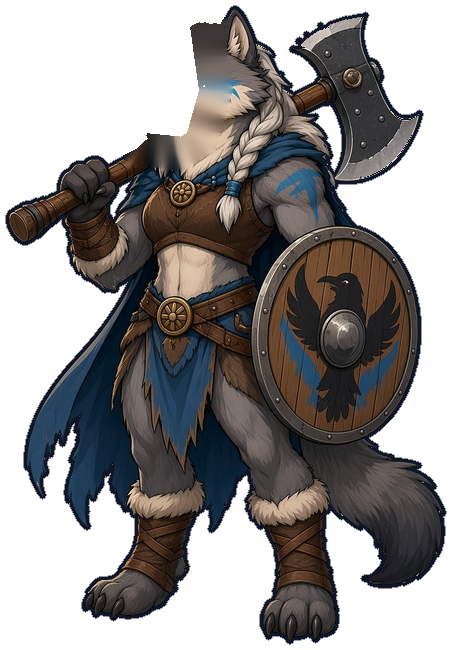
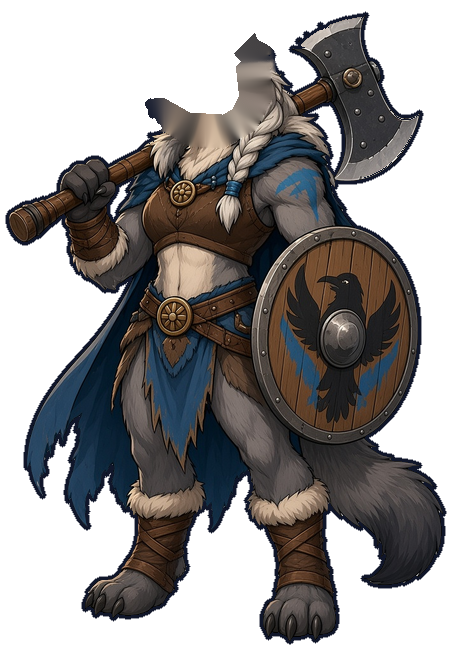
Quick fixes from play-testing
- Astrid's head outline was cutting through her ear and face; redrawn, re-cut
- Speech bubbles stay long enough to read (longer lines stay longer) and fade
  out slowly; a reply waits for the first line to finish
- Clicking in a scene no longer highlights text
- Send now on every open place, so there is no scrolling to the bottom
- The greeting line on Home changes every 20 seconds, not on every refresh
- The founder seal sits on the art, not over the card's name
- Tapping energy, ink or gold in the top bar opens Training, Summon or the Shop
- Summon reveal starts larger so the card is not blown up from a tiny size

Claude-Session: https://claude.ai/code/session_01MKsZvYnMVUP17zjeeAuUE4

Changed region(s): [[0.2781, 0.0, 0.6181, 0.2769]]

diff --git a/css/os.css b/css/os.css
@@ -332,7 +332,8 @@ small.ok{color:#3ecf6b}small.bad,.ferr{color:#ff7a70}.ferr{font-weight:800;font-
 .jpop{position:absolute;inset:0;pointer-events:none}.drop{position:absolute;left:62%;top:42%;display:flex;align-items:center;gap:.3rem;font:400 .95rem "Lilita One";text-shadow:0 0 4px #000,0 2px 0 #000;animation:dropup 1.9s forwards;white-space:nowrap}.drop img{width:40px;height:40px;object-fit:contain;filter:drop-shadow(0 3px 4px #000)}
 @keyframes dropup{from{opacity:0;transform:translateY(20px) scale(.4)}15%{opacity:1;transform:translateY(0) scale(1.1)}70%{opacity:1}to{opacity:0;transform:translateY(-36px) scale(.8)}}
 .heroes.pick .card{cursor:pointer}.card.sel .face{outline:4px solid var(--teal);outline-offset:3px}.card.busy{opacity:.35;cursor:not-allowed}
-.card.rising{animation:rise2 1.6s cubic-bezier(.2,1.2,.4,1) both}@keyframes rise2{from{transform:translateY(70%) scale(.2) rotateY(540deg);opacity:0}45%{opacity:1}to{transform:none}}
+.card.rising{animation:rise2 1.6s cubic-bezier(.2,1.2,.4,1) both}@keyframes rise2{from{transform:translateY(60%) scale(.6) rotateY(540deg);opacity:0}45%{opacity:1}to{transform:scale(1) rotateY(0deg)}}
+.card.rising{will-change:transform;backface-visibility:hidden}
 .slot.pulse{animation:pulse 1.2s infinite}@keyframes pulse{50%{box-shadow:0 0 16px var(--teal)}}
 .popin{animation:popin .5s cubic-bezier(.3,1.8,.5,1)}@keyframes popin{from{transform:scale(.2) rotate(-20deg);opacity:0}}
 .trow{display:grid;grid-template-columns:64px 150px 1fr;gap:.8rem;align-items:center;margin-bottom:.6rem;padding:.6rem .9rem}.trow img{height:64px;object-fit:contain;margin:0 auto}.tname span{display:block;font-size:.8rem}
@@ -648,14 +649,17 @@ a.place:hover{transform:translateY(-3px);border-color:var(--teal)}
 .card.founder .face::after{content:"";position:absolute;inset:6px;border-radius:13px;pointer-events:none;z-index:4;
   box-shadow:inset 0 0 0 1px rgba(255,241,184,.85),inset 0 0 14px rgba(242,185,53,.35)}
 .card.mini.founder .face::after{inset:4px;border-radius:9px}
-.card.founder .front .seal{position:absolute;right:8px;top:8px;z-index:5;width:22px;height:22px;border-radius:50%;
+.card.founder .front .seal{position:absolute;right:8px;top:23%;z-index:5;width:22px;height:22px;border-radius:50%;
   background:radial-gradient(circle at 35% 30%,#ffe9a8,#f2b935 45%,#9c6a10);border:2px solid rgba(5,8,20,.8);
   display:grid;place-items:center;font:400 .62rem "Lilita One";color:#4a3520;text-shadow:0 1px 0 rgba(255,255,255,.4)}
-.card.mini.founder .front .seal{width:16px;height:16px;font-size:.5rem;right:6px;top:6px}
+.card.mini.founder .front .seal{width:16px;height:16px;font-size:.5rem;right:6px;top:24%}
 .founder-note{display:inline-flex;align-items:center;gap:.4rem;font:800 .72rem Nunito;letter-spacing:.08em;text-transform:uppercase;color:#f3b930}
 /* speech bubble (js/stage.js): white, inked, with a tail that points at whoever is talking */
 .osb{position:absolute;z-index:8;max-width:min(230px,46%);background:#fff;color:#1e2a47;border:2.5px solid #1e2a47;border-radius:14px;padding:.34em .7em;font:700 .8rem/1.25 Nunito,sans-serif;box-shadow:0 3px 0 rgba(8,12,26,.45);opacity:0;transform:translateY(6px) scale(.8);transform-origin:var(--tx,50%) 100%;transition:opacity .16s,transform .2s cubic-bezier(.3,1.6,.5,1);pointer-events:none;text-align:left}
 .osb.on{opacity:1;transform:none}
+.osb.off{opacity:0;transform:translateY(-4px);transition:opacity 1.1s ease,transform 1.1s ease}
+.jscene,.jscene *,.desk-scene,.desk-scene *,.gnav,.gbar,.card,.btn,.rstage{-webkit-user-select:none;user-select:none}
+.gbar .res span[data-go]{cursor:pointer}.prow .acts{flex-direction:column;align-items:stretch;gap:.35rem}
 .osb::before,.osb::after{content:"";position:absolute;left:var(--tx,50%);top:100%;border:9px solid transparent;border-top-color:#1e2a47;border-bottom:0;transform:translateX(-50%)}
 .osb::after{border-width:6px;border-top-color:#fff;border-bottom:0;margin-top:-1px}
 .osb.side-l::before,.osb.side-l::after{left:auto;right:100%;top:var(--ty,50%);border:9px solid transparent;border-right-color:#1e2a47;border-left:0;transform:translateY(-50%)}

diff --git a/js/game.js b/js/game.js
@@ -271,7 +271,7 @@
     ['Dress them', 'When gear turns up, open an arrival from Arrivals and tap a glowing slot on the back of their card.', 'heroes', () => Object.values(S.equip).some(e => e.some(g => g)) || Object.values(S.gear).some(g => Object.values(g).some(x => x))]];
   function renderHome() {
     const hr = new Date().getHours(); $('h-day').textContent = new Date().toLocaleDateString(undefined, { weekday: 'long', month: 'long', day: 'numeric' });
-    $('h-hi').textContent = (hr < 12 ? 'Morning' : hr < 18 ? 'Afternoon' : 'Evening') + ', ' + me.profile.username; $('h-sub').textContent = line('idle');
+    $('h-hi').textContent = (hr < 12 ? 'Morning' : hr < 18 ? 'Afternoon' : 'Evening') + ', ' + me.profile.username; if (!renderHome.at || now() - renderHome.at > 20000) { renderHome.at = now(); $('h-sub').textContent = line('idle'); }
     $('adminbtn').hidden = !me.admin;
     const g = $('guide'), left = GUIDE.filter(s => !s[3]()); g.hidden = !left.length;
     if (left.length) { g.innerHTML = '<div class="tag">Getting started</div>' + GUIDE.map((s, i) => `<div class="gstep ${s[3]() ? 'done' : ''}"><i>${s[3]() ? '✓' : i + 1}</i><div><b>${s[0]}</b><span>${s[1]}</span></div><button class="btn small ${s[3]() ? 'ghost' : ''}" data-go="${s[2]}">${s[3]() ? 'Done' : 'Go'}</button></div>`).join(''); }
@@ -350,19 +350,20 @@
     const host = document.querySelector('[data-who="0"]'); if (!host || !text) return;
     const box = q => ({ x0: q.x - q.wide * .4, x1: q.x + q.wide * .4, y0: q.y - q.tall, y1: q.y });
     OS.Stage.say(host, { x: pp.x, top: pp.y - pp.tall }, text, hold, jobPups.filter(q => q !== pp).map(box));
-    pp.say((hold || 3200) / 1000 - .4);
+    pp.say((hold || OS.Stage.holdFor(text)) / 1000 - .3);
   }
   function chatter(dt) {
     if (current !== 'jobs' || !crewPups.length || $('modal').classList.contains('on')) return; chatT -= dt; if (chatT > 0) return; chatT = 11 + Math.random() * 10;
     const a = crewPups[Math.floor(Math.random() * crewPups.length)]; crewSay(a, pickLine(a.id, 'say'));
-    const others = crewPups.filter(x => x !== a); if (others.length && Math.random() < 0.45) { const b = others[Math.floor(Math.random() * others.length)]; setTimeout(() => { if (current === 'jobs') crewSay(b, pickLine(b.id, 'reply'), 2600); }, 2700); chatT += 3; }
+    const others = crewPups.filter(x => x !== a); if (others.length && Math.random() < 0.45) { const b = others[Math.floor(Math.random() * others.length)]; setTimeout(() => { if (current === 'jobs') crewSay(b, pickLine(b.id, 'reply')); }, 5200); chatT += 7; }
   }
   function placeSheet() {
     const j = Object.assign({ place: null, prog: 0, order: 'stay', since: 0 }, S.jobs[0] || {}), d = el('div', '', `<h3 style="font-size:1.5rem">Where should Smudge work?</h3>`);
     const ps = el('div', 'plist');
     workPlaces.forEach(p => { const open = unlocked(p), row = el('div', 'prow' + (open ? '' : ' lock'));
       row.innerHTML = `<img src="${OS.img('scenes', p.id)}" alt=""><div><div class="tag">${p.era} · ${p.skill}</div><h3>${p.name}</h3><p>${open ? p.blurb : 'Needs ' + p.skill + ' level ' + p.level + '.'}</p></div>`;
-      const acts = el('div', 'row acts'); acts.appendChild(btn('small ghost', 'What drops here', e => { e.stopPropagation(); lootSheet(p, placeSheet); })); row.appendChild(acts);
+      const acts = el('div', 'row acts'); if (open) acts.appendChild(btn('small', 'Send now', e => { e.stopPropagation(); j.place = p.id; upd(); go.click(); }));
+      acts.appendChild(btn('small ghost', 'What drops here', e => { e.stopPropagation(); lootSheet(p, placeSheet); })); row.appendChild(acts);
       if (open) row.onclick = () => { j.place = p.id; upd(); }; row.dataset.id = p.id; ps.appendChild(row); });
     d.appendChild(ps);
     d.appendChild(el('div', 'tag', 'Standing orders')).style.marginTop = '1rem';

diff --git a/play.html b/play.html
@@ -23,7 +23,7 @@
 <meta name="viewport" content="width=device-width,initial-scale=1,viewport-fit=cover">
 
 <meta name="theme-color" content="#080c1a">
-<link rel="stylesheet" href="/css/os.css?v=1126k">
+<link rel="stylesheet" href="/css/os.css?v=1126l">
 </head>
 <body class="game">
 <div class="boot" id="boot"><img src="/assets/v2/smudge/stamp.webp?v=1126a" alt=""><p>Opening the ledger…</p></div>
@@ -31,9 +31,9 @@
   <button class="backbtn" id="go-back" type="button" aria-label="Back" hidden>&#8249;</button>
   <a class="brand" href="/" aria-label="OverSummoned"><span class="o">O</span>ver<b>Summoned</b></a>
   <div class="res">
-    <span title="Energy. Spend it on training."><img src="/assets/v2/loot/x_energy.webp" alt="Energy"><b id="r-energy">0</b></span>
-    <span title="Ink. Smudge spends it to summon."><img src="/assets/v2/loot/x_ink.webp" alt="Ink"><b id="r-ink">0</b></span>
-    <span title="Gold"><img src="/assets/v2/loot/x_gold.webp" alt="Gold"><b id="r-gold">0</b></span>
+    <span title="Energy. Spend it on training." data-go="training"><img src="/assets/v2/loot/x_energy.webp" alt="Energy"><b id="r-energy">0</b></span>
+    <span title="Ink. Smudge spends it to summon." data-go="summon"><img src="/assets/v2/loot/x_ink.webp" alt="Ink"><b id="r-ink">0</b></span>
+    <span title="Gold. Spend it in the shop." data-go="shop"><img src="/assets/v2/loot/x_gold.webp" alt="Gold"><b id="r-gold">0</b></span>
     <button class="fbbtn" id="go-feedback" type="button">Ideas or feedback?</button>
     <button class="avatar" id="go-account" aria-label="Your account"><img src="/assets/v2/smudge/stamp.webp?v=1126a" alt=""></button>
   </div>
@@ -160,12 +160,12 @@
 <div class="toast" id="toast"></div>
 <script src="https://cdn.jsdelivr.net/npm/@supabase/supabase-js@2.45.0/dist/umd/supabase.min.js"></script>
 <script src="/js/cloud.js"></script>
-<script src="/js/os.js?v=1126k"></script>
-<script src="/js/stage.js?v=1126k"></script>
-<script src="/js/scenefx.js?v=1126k"></script>
+<script src="/js/os.js?v=1126l"></script>
+<script src="/js/stage.js?v=1126l"></script>
+<script src="/js/scenefx.js?v=1126l"></script>
 <script src="/js/vendor/dragonBones.core.min.js"></script>
-<script src="/js/dbcanvas.js?v=1126k"></script>
-<script src="/js/game.js?v=1126k"></script>
+<script src="/js/dbcanvas.js?v=1126l"></script>
+<script src="/js/game.js?v=1126l"></script>
 <script>if ('serviceWorker' in navigator) addEventListener('load', () => navigator.serviceWorker.register('/sw.js').catch(() => { }));</script>
 </body>
 </html>

diff --git a/dashtest.html b/dashtest.html
@@ -4,8 +4,8 @@
 <meta charset="utf-8"><meta name="viewport" content="width=device-width,initial-scale=1">
 <title>Dashboard mockup · OverSummoned</title>
 <meta name="robots" content="noindex,nofollow">
-<link rel="stylesheet" href="/css/os.css?v=1126k">
-<link rel="stylesheet" href="/css/dash.css?v=1126k">
+<link rel="stylesheet" href="/css/os.css?v=1126l">
+<link rel="stylesheet" href="/css/dash.css?v=1126l">
 </head>
 <body class="dashbody">
 <header class="gbar"><div class="wrap">
@@ -15,7 +15,7 @@
     <span title="Ink"><img src="/assets/v2/loot/x_ink.webp" alt="Ink"><b id="r-ink">0</b></span>
     <span title="Gold"><img src="/assets/v2/loot/x_gold.webp" alt="Gold"><b id="r-gold">12,480</b></span>
     <button class="fbbtn" type="button">Ideas or feedback?</button>
-    <button class="avatar"><img src="/assets/v2/smudge/stamp.webp?v=1126k" alt=""></button>
+    <button class="avatar"><img src="/assets/v2/smudge/stamp.webp?v=1126l" alt=""></button>
   </div>
 </div></header>
 
@@ -122,9 +122,9 @@
 </main>
 
 <script src="/js/vendor/dragonBones.core.min.js"></script>
-<script src="/js/stage.js?v=1126k"></script>
-<script src="/js/scenefx.js?v=1126k"></script>
-<script src="/js/dbcanvas.js?v=1126k"></script>
-<script src="/js/dashtest.js?v=1126k"></script>
+<script src="/js/stage.js?v=1126l"></script>
+<script src="/js/scenefx.js?v=1126l"></script>
+<script src="/js/dbcanvas.js?v=1126l"></script>
+<script src="/js/dashtest.js?v=1126l"></script>
 </body>
 </html>

diff --git a/js/stage.js b/js/stage.js
@@ -38,6 +38,7 @@
     // the rod tip in host pixels for a pose placed at `at` and `h` tall
     rodTip(pose, at, h, rig) { const t = ROD[pose], e = rig[pose]; if (!t || !e) return null; const k = h / e.size[1];
       return [at[0] + (t[0] - e.foot[0]) * k, at[1] + (t[1] - e.foot[1]) * k]; },
+    holdFor(text) { return Math.min(9000, 3200 + String(text || '').length * 65); },
     flip(id, face) { return !!(LOOKS[id] && LOOKS[id] !== face); },
     // A speech bubble with a tail that points at whoever is talking. who = { x, top } in host pixels (the middle of the
     // head and its top edge); others = [{ x0, y0, x1, y1 }] boxes of everyone else, which the bubble keeps off.
@@ -56,7 +57,9 @@
       if (best.side) { b.classList.add('side-' + best.side); b.style.setProperty('--ty', Math.max(8, Math.min(bh - 8, who.top + 14 - best.y)) + 'px'); }
       else b.style.setProperty('--tx', Math.max(12, Math.min(bw - 12, who.x - best.x)) + 'px');
       requestAnimationFrame(() => b.classList.add('on'));
-      setTimeout(() => { b.classList.remove('on'); setTimeout(() => b.remove(), 250); }, hold || 3200);
+      // long enough to read (longer lines stay longer), then a slow fade rather than a snap
+      const stay = hold || Stage.holdFor(text);
+      setTimeout(() => { b.classList.add('off'); setTimeout(() => b.remove(), 1150); }, stay);
       return b;
     } };
   (typeof OS !== "undefined" ? OS : (window.OS = window.OS || {})).Stage = Stage;

diff --git a/js/dashtest.js b/js/dashtest.js
@@ -1,7 +1,7 @@
 // Dashboard mockup: fake numbers, but the live bits are live — the rigs move, the bars fill,
 // the sparkline is drawn, and the haul timer runs. Nothing here touches a save.
 (function () {
-  const $ = id => document.getElementById(id), V = '?v=1126k';
+  const $ = id => document.getElementById(id), V = '?v=1126l';
 
   // ---- the desk: Smudge at work with a crew of three, on the scene he is working
   const scene = $('scene'), crew = $('crew');
@@ -31,8 +31,8 @@
     const crewOnly = cast.filter(m => m.id); if (!crewOnly.length || document.hidden) return;
     const m = crewOnly[Math.floor(Math.random() * crewOnly.length)], l = (lines[m.id] || {}).say; if (!l || !l.length) return;
     const box = q => ({ x0: q.x - q.wide * .4, x1: q.x + q.wide * .4, y0: q.y - q.tall, y1: q.y });
-    OS.Stage.say(crew, { x: m.x, top: m.y - m.tall }, l[Math.floor(Math.random() * l.length)], 3200, cast.filter(q => q !== m).map(box)); m.p.say(2.8);
-  }, 6500);
+    OS.Stage.say(crew, { x: m.x, top: m.y - m.tall }, l[Math.floor(Math.random() * l.length)], 0, cast.filter(q => q !== m).map(box)); m.p.say(4);
+  }, 9500);
   placeRigs(); addEventListener('resize', () => { clearTimeout(crew._t); crew._t = setTimeout(placeRigs, 250); });
 
   // ---- the haul timer, so the strip is never still

diff --git a/maptest.html b/maptest.html
@@ -1,7 +1,7 @@
 <!doctype html><html lang="en"><head><meta charset="utf-8"><meta name="viewport" content="width=device-width,initial-scale=1">
 <title>Map test · OverSummoned</title><meta name="robots" content="noindex,nofollow"><link rel="stylesheet" href="/css/os.css?v=1126a"></head>
 <body><main class="wrap" style="padding:1.5rem 0"><h1 style="font-size:1.6rem">Map test (made-up visitors)</h1><div class="panel" style="margin-top:1rem"><div class="geomap" id="m"></div></div></main>
-<script src="/js/geomap.js?v=1126k"></script><script>
+<script src="/js/geomap.js?v=1126l"></script><script>
 const P=[['US','Melbourne',28.1,-80.6,14],['US','New York',40.7,-74,9],['US','Los Angeles',34.1,-118.2,6],['GB','London',51.5,-0.1,8],['DE','Berlin',52.5,13.4,4],['BR','Sao Paulo',-23.5,-46.6,3],['JP','Tokyo',35.7,139.7,5],['AU','Sydney',-33.9,151.2,4],['IN','Mumbai',19.1,72.9,2],['ZA','Cape Town',-33.9,18.4,1],['CA','Toronto',43.7,-79.4,3],['FR','Paris',48.9,2.4,2]];
 const places=P.map(p=>({country:p[0],city:p[1],lat:p[2],lon:p[3],visitors:p[4],views:p[4]*3}));
 GeoMap.mount(document.getElementById('m'),{places,recent:places.slice(0,8).map((p,i)=>({...p,path:['/','/heroes','/desktop-pet','/story'][i%4],at:new Date(Date.now()-i*420000).toISOString()}))});

diff --git a/admin.html b/admin.html
@@ -61,6 +61,6 @@
 </main>
 <div class="tip" id="ctip"></div><div class="toast" id="toast"></div>
 <script src="https://cdn.jsdelivr.net/npm/@supabase/supabase-js@2.45.0/dist/umd/supabase.min.js"></script>
-<script src="/js/cloud.js"></script><script src="/js/os.js"></script><script src="/js/geomap.js?v=1126k"></script><script src="/js/stage.js?v=1126k"></script><script src="/js/vendor/dragonBones.core.min.js"></script><script src="/js/dbcanvas.js?v=1126k"></script>
+<script src="/js/cloud.js"></script><script src="/js/os.js"></script><script src="/js/geomap.js?v=1126l"></script><script src="/js/stage.js?v=1126l"></script><script src="/js/vendor/dragonBones.core.min.js"></script><script src="/js/dbcanvas.js?v=1126l"></script>
 <script src="/js/admin.js"></script>
 </body></html>

diff --git a/sw.js b/sw.js
@@ -1,6 +1,6 @@
 // OverSummoned app shell. Pages and code come from the network first (so updates show at once) and
 // fall back to the last copy when offline; pictures with a version in their link are kept.
-const V = 'os-1126k';
+const V = 'os-1126l';
 self.addEventListener('install', e => { self.skipWaiting(); e.waitUntil(caches.open(V).then(c => c.addAll(['/offline', '/css/os.css', '/assets/fonts/LilitaOne.ttf', '/assets/fonts/Nunito.ttf']).catch(() => { }))); });
 self.addEventListener('activate', e => e.waitUntil((async () => { for (const k of await caches.keys()) if (k !== V) await caches.delete(k); await self.clients.claim(); })()));
 self.addEventListener('fetch', e => {

diff --git a/js/os.js b/js/os.js
@@ -3,7 +3,7 @@ window.OS = (function () {
   const A = '/assets/v2/';
   const OS = { R: null, rig: null, voice: null, items: {}, heroes: {} };
 
-  OS.VER = '?v=1126k';   // bump when art or data changes, so browsers drop their cached copies
+  OS.VER = '?v=1126l';   // bump when art or data changes, so browsers drop their cached copies
   OS.load = async function () {
     const [R, rig, voice] = await Promise.all(['rules', 'rig', 'voice'].map(n => fetch('/data/' + n + '.json' + OS.VER).then(r => r.json())));
     OS.R = R; OS.rig = rig; OS.voice = voice; OS.items = R.items;

diff --git a/rules/heropup.py b/rules/heropup.py
@@ -17,7 +17,7 @@ HEADS = {  # id: (head polygon, neck pivot)
  "napoleon": ([(25,0),(310,0),(312,150),(290,235),(240,262),(160,262),(110,235),(60,160),(25,130)], (200,250)),
  "cleocatra": ([(105,0),(275,0),(278,190),(230,212),(150,212),(105,190)], (190,200)),
  "blackbear": ([(125,5),(335,5),(335,110),(310,200),(270,250),(200,250),(165,200),(140,110)], (235,225)),
- "astrid": ([(95,5),(220,5),(232,90),(215,150),(180,170),(130,165),(100,120)], (165,155)),
+ "astrid": ([(132,12),(205,20),(232,2),(266,40),(272,95),(255,130),(222,148),(190,146),(158,128),(140,112),(134,80)], (205,138)),
  "kenji": ([(25,0),(300,0),(300,150),(265,215),(215,232),(150,228),(100,190),(30,150)], (185,212)),
  "emu": ([(50,0),(265,0),(268,125),(200,140),(190,265),(110,265),(105,140),(50,120)], (150,262)),
  "troffea": ([(10,20),(150,15),(195,60),(200,150),(180,185),(130,190),(80,235),(50,235),(60,150),(10,110)], (160,178)),
